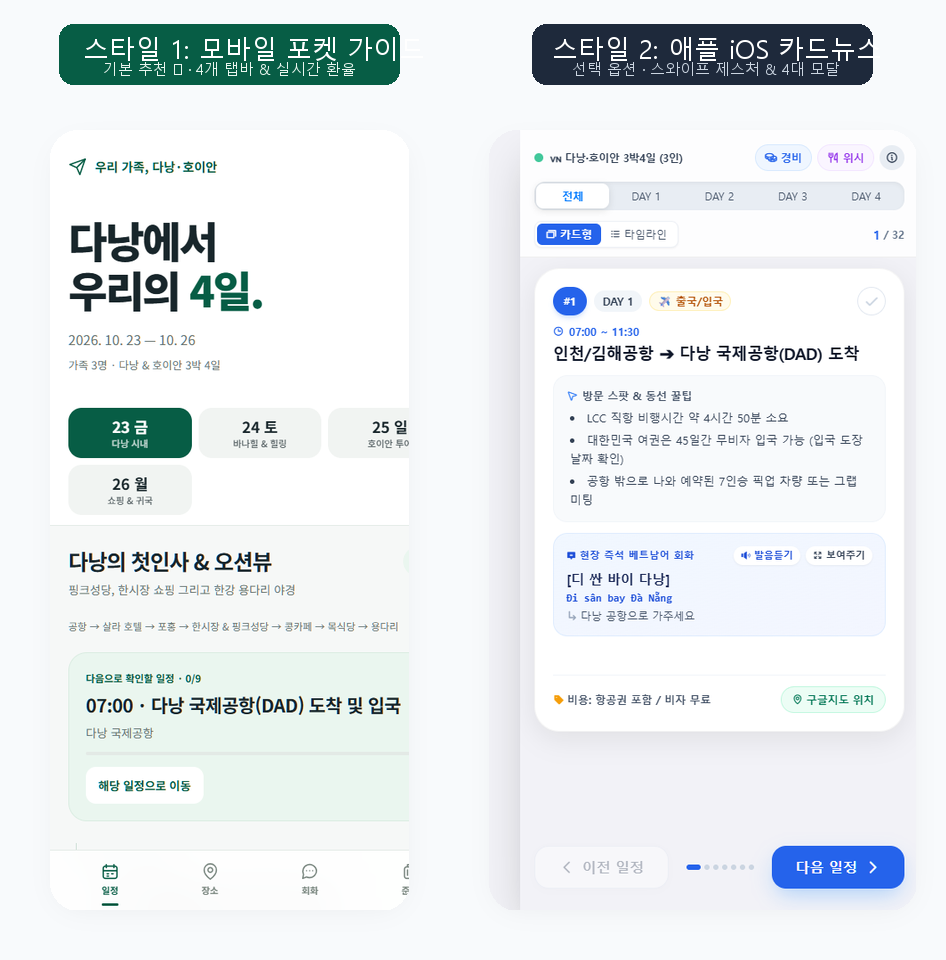
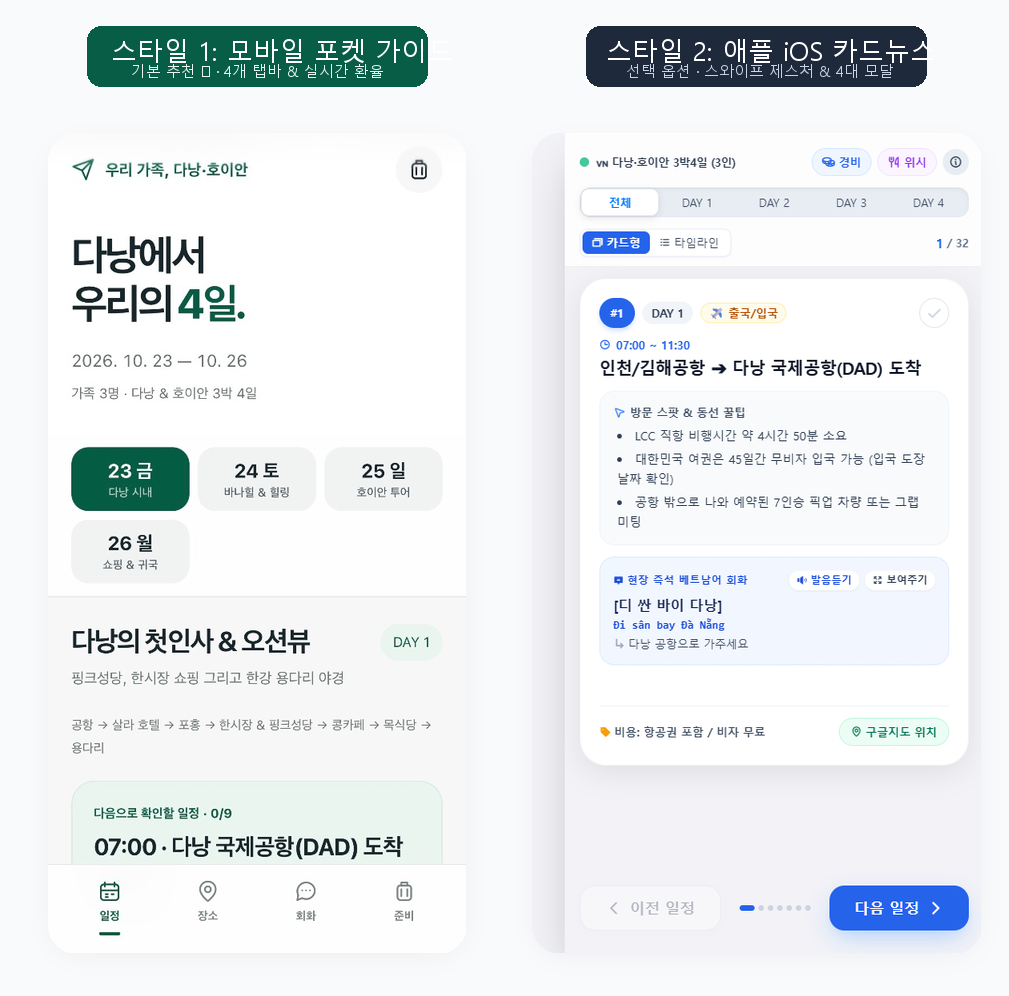
docs: update preview with real mobile screenshot and add interactive live demo links

diff --git a/skills/trip-planner/README.ko.md b/skills/trip-planner/README.ko.md
@@ -65,72 +65,10 @@
 스킬을 통해 자동으로 생성되는 모바일 최적화 애플 아이폰(iOS) 스타일 카드뉴스 웹 애플리케이션의 실제 캡처 화면 및 샘플 파일입니다.
 
 <p align="center">
-  <img src="dual_preview.png" alt="Dual Mobile Web App Styles: Pocket Guide & iOS Card News Preview" width="700" style="border-radius: 20px; box-shadow: 0 10px 30px rgba(0,0,0,0.12);" />
+  <img src="dual_preview.png" alt="2가지 스타일 모바일 웹앱: 포켓 가이드 & iOS 카드뉴스 미리보기" width="760" style="border-radius: 20px; box-shadow: 0 10px 30px rgba(0,0,0,0.12);" />
 </p>
 
-* 🌐 **샘플 웹앱 파일**: [`examples/danang_trip_cards.html`](examples/danang_trip_cards.html)  
-  *(다운로드 후 브라우저로 열면 오프라인에서 직접 카드 스와이프, TTS 발음듣기, 검색 타임라인을 체험할 수 있습니다.)*
-* 🗺 **구글 내 지도 올인원 KML**: [`examples/danang_mymaps.kml`](examples/danang_mymaps.kml)  
-  *(구글 내 지도에서 [새 지도 만들기] -> [가져오기]에 드래그하면 1~4일차 번호핀 및 상세 일정 팝업이 1초 만에 자동 생성됩니다.)*
-* 📊 **구글 내 지도 표준 8컬럼 통합 CSV**: [`examples/danang_itinerary.csv`](examples/danang_itinerary.csv)
-* 📂 **구글 내 지도 Day별 분리 CSV**:
-  * [`examples/day1_itinerary.csv`](examples/day1_itinerary.csv) (1일차)
-  * [`examples/day2_itinerary.csv`](examples/day2_itinerary.csv) (2일차)
-  * [`examples/day3_itinerary.csv`](examples/day3_itinerary.csv) (3일차)
-  * [`examples/day4_itinerary.csv`](examples/day4_itinerary.csv) (4일차)
-
----
-
-## 📂 파일 구조 (Structure)
-
-```
-trip-planner/
-├── SKILL.md                              # 스킬 메인 명세 및 6대 절대 원칙 가이드라인 (영문)
-├── SKILL.ko.md                           # 스킬 메인 명세 및 6대 절대 원칙 가이드라인 (국문)
-├── README.md                             # 영문 스킬 소개 및 사용 가이드
-├── README.ko.md                          # 국문 스킬 소개 및 사용 가이드
-├── sample_preview.png                    # 모바일 카드뉴스 웹앱 실제 스크린샷
-├── examples/                             # 🌟 실제 생성 샘플 산출물 (다낭 3박 4일 풀세트)
-│   ├── danang_trip_cards.html            # 모바일 카드뉴스 웹앱 샘플 (표준 iOS 템플릿 양식)
-│   ├── danang_mymaps.kml                 # 구글 내 지도 올인원 KML
-│   ├── danang_itinerary.csv              # 구글 내 지도 표준 8컬럼 통합 CSV 샘플
-│   ├── day1_itinerary.csv                # 1일차 구글 내 지도 CSV
-│   ├── day2_itinerary.csv                # 2일차 구글 내 지도 CSV
-│   ├── day3_itinerary.csv                # 3일차 구글 내 지도 CSV
-│   └── day4_itinerary.csv                # 4일차 구글 내 지도 CSV
-├── references/
-│   └── trip_planning_playbook.md         # 권역별(일본/동남아/유럽/미주) 플래닝 플레이북
-└── resources/
-    ├── master_itinerary_template.md      # 마스터 일정표 표준 Markdown 템플릿
-    ├── budget_template.md                # 다통화 환율 및 정밀 예산안 템플릿
-    ├── itinerary_template.csv            # 구글 내 지도 표준 8컬럼 CSV 템플릿
-    ├── mymaps_template.kml               # 구글 내 지도 올인원 KML 템플릿
-    ├── generate_maps_data.py             # Day별 CSV 및 올인원 KML 자동 빌드 스크립트
-    └── ios_card_app_template.html        # 양식·레이아웃·4대 모달·itineraryData 고정 표준 템플릿
-```
-
----
-
-## 🚀 설치 및 사용법 (Installation)
-
-### 1. Antigravity 글로벌 스킬로 설치
-본 저장소를 클론하여 사용자의 Antigravity 글로벌 스킬 디렉터리에 배치합니다:
-
-```bash
-# Windows (PowerShell)
-git clone https://github.com/jaeminiz/awesome-agent-skills.git
-Copy-Item -Path "awesome-agent-skills\skills\trip-planner" -Destination "$HOME\.gemini\config\skills\" -Recurse -Force
-
-# macOS / Linux
-git clone https://github.com/jaeminiz/awesome-agent-skills.git
-cp -r awesome-agent-skills/skills/trip-planner ~/.gemini/config/skills/
-```
-
-### 2. 프로젝트 전용 스킬로 설치
-특정 워크스페이스에서만 사용할 경우 프로젝트 루트의 `.agents/skills/`에 배치합니다:
-
-```bash
-# 워크스페이스 루트에서 실행
-New-Item -ItemType Directory -Force -Path ".agents\skills"
-Copy-Item -Path "awesome-agent-skills\skills\trip-planner" -Destination ".agents\skills\trip-planner" -Recurse -Force
-```
+### 🌐 실시간 인터랙티브 라이브 데모 (브라우저에서 바로 체험)
+스마트폰 또는 PC 브라우저에서 생성된 실제 웹앱을 클릭하여 직접 테스트해 보세요:
+* 📱 **[스타일 1: 모바일 포켓 가이드 웹앱 바로 열기 (다낭 4일)](https://jaeminiz.github.io/awesome-agent-skills/skills/trip-planner/examples/danang_pocket_guide.html)** — *기본 추천 ⭐ (4대 하단 탭, 실시간 검색, 완료 체크박스, Apple/Google 지도 듀얼 연동, 원어민 TTS 음성, 실시간 환율 계산기)*
+* 🗂 **[스타일 2: 애플 iOS 카드뉴스 웹앱 바로 열기 (다낭 4일)](https://jaeminiz.github.io/awesome-agent-skills/skills/trip-planner/examples/danang_trip_cards.html)** — *(터치 스와이프 카드뉴스, 화이트 글래스모피즘, 4대 상단 팝업 모달)*

diff --git a/skills/trip-planner/README.md b/skills/trip-planner/README.md
@@ -73,61 +73,10 @@ npx skills add https://github.com/jaeminiz/awesome-agent-skills --skill trip-pla
 A glimpse of the mobile-optimized Apple iPhone (iOS) style card news web app generated automatically by this skill:
 
 <p align="center">
-  <img src="dual_preview.png" alt="Dual Mobile Web App Styles: Pocket Guide & iOS Card News Preview" width="700" style="border-radius: 20px; box-shadow: 0 10px 30px rgba(0,0,0,0.12);" />
+  <img src="dual_preview.png" alt="Dual Mobile Web App Styles: Pocket Guide & iOS Card News Preview" width="760" style="border-radius: 20px; box-shadow: 0 10px 30px rgba(0,0,0,0.12);" />
 </p>
 
-* 🌐 **Interactive Web App Sample**: [`examples/danang_trip_cards.html`](examples/danang_trip_cards.html)  
-  *(Open directly in any mobile or desktop browser to experience card swiping, voice TTS, and timeline search completely offline.)*
-* 🗺 **Google My Maps All-in-One KML**: [`examples/danang_mymaps.kml`](examples/danang_mymaps.kml)  
-  *(Import into Google My Maps to instantly view 1–4 day numbered pins and popup descriptions.)*
-* 📊 **Google My Maps Standard 8-Column Integrated CSV**: [`examples/danang_itinerary.csv`](examples/danang_itinerary.csv)
-* 📂 **Google My Maps Day-by-Day CSVs**:
-  * [`examples/day1_itinerary.csv`](examples/day1_itinerary.csv) (Day 1)
-  * [`examples/day2_itinerary.csv`](examples/day2_itinerary.csv) (Day 2)
-  * [`examples/day3_itinerary.csv`](examples/day3_itinerary.csv) (Day 3)
-  * [`examples/day4_itinerary.csv`](examples/day4_itinerary.csv) (Day 4)
-
----
-
-## 📂 File Structure
-
-```
-trip-planner/
-├── SKILL.md                              # Main agent instruction & strict governance rules (EN)
-├── SKILL.ko.md                           # Main agent instruction & strict governance rules (KO)
-├── README.md                             # English skill documentation
-├── README.ko.md                          # Korean skill documentation
-├── sample_preview.png                    # Mobile card news web app screenshot
-├── examples/                             # Production-ready sample deliverables (Da Nang 4-Day)
-│   ├── danang_trip_cards.html            # Mobile card news web app (Strict iOS template layout)
-│   ├── danang_mymaps.kml                 # Google My Maps All-in-One KML
-│   ├── danang_itinerary.csv              # Google My Maps 8-column combined CSV
-│   ├── day1_itinerary.csv                # Day 1 CSV
-│   ├── day2_itinerary.csv                # Day 2 CSV
-│   ├── day3_itinerary.csv                # Day 3 CSV
-│   └── day4_itinerary.csv                # Day 4 CSV
-├── references/
-│   └── trip_planning_playbook.md         # Regional planning guidelines (Asia, Europe, Americas)
-└── resources/
-    ├── master_itinerary_template.md      # Master itinerary Markdown template
-    ├── budget_template.md                # Multi-currency budget template
-    ├── itinerary_template.csv            # Google My Maps 8-column CSV template
-    ├── mymaps_template.kml               # Google My Maps All-in-One KML template
-    ├── generate_maps_data.py             # Python utility script for CSV & KML builds
-    └── ios_card_app_template.html        # Strict iOS Card App HTML/JS template (4 Modals + itineraryData)
-```
-
----
-
-## 🌐 Language Support
-
-The `trip-planner` skill is fully **language-agnostic**:
-* When the user converses in **English**, all questionnaire items, timeline tables, budgets, and generated deliverables are rendered in **English** (with native local phrases for destination countries).
-* When the user converses in **Korean**, it operates seamlessly in **Korean**.
-* Supports any destination worldwide (Japan, Vietnam, France, Italy, USA, Switzerland, Spain, etc.).
-
----
-
-## 📄 License
-
-MIT License. See [LICENSE](../../LICENSE) for details.
+### 🌐 Live Interactive Demos (Instant Browser Test)
+Test the generated mobile web applications directly in your smartphone or desktop browser:
+* 📱 **[Style 1: Mobile Pocket Guide Demo (Da Nang 4-Day)](https://jaeminiz.github.io/awesome-agent-skills/skills/trip-planner/examples/danang_pocket_guide.html)** — *Recommended ⭐ (4 native bottom tabs, live search, task checkmarks, Apple/Google Maps, TTS voice, dynamic exchange rate calculator)*
+* 🗂 **[Style 2: Apple iOS Card News Demo (Da Nang 4-Day)](https://jaeminiz.github.io/awesome-agent-skills/skills/trip-planner/examples/danang_trip_cards.html)** — *(Swipe gesture card deck, white glassmorphic design, 4 top utility modals)*

diff --git a/README.ko.md b/README.ko.md
@@ -41,63 +41,10 @@
 * **[방법 B: KML로 등록 - 원클릭]**: **[+ 새 지도 만들기]** ➔ **[가져오기]** ➔ `danang_mymaps.kml` 드래그앤드롭 ➔ 파싱 에러 없이 전 일정 핀과 팝업 즉시 등록. *(팁: 이전 세션 캐시로 인한 오류 팝업 발생 시 브라우저를 **F5 새로고침** 후 재시도)*
 
 <p align="center">
-  <img src="skills/trip-planner/dual_preview.png" alt="Dual Mobile Web App Styles: Pocket Guide & iOS Card News Preview" width="700" style="border-radius: 20px; box-shadow: 0 10px 30px rgba(0,0,0,0.12);" />
+  <img src="skills/trip-planner/dual_preview.png" alt="2가지 스타일 모바일 웹앱: 포켓 가이드 & iOS 카드뉴스 미리보기" width="760" style="border-radius: 20px; box-shadow: 0 10px 30px rgba(0,0,0,0.12);" />
 </p>
 
-* 🌐 **[실제 다낭 여행 카드뉴스 웹앱 체험](skills/trip-planner/examples/danang_trip_cards.html)**
-* 🗺 **[구글 내 지도 올인원 KML 샘플](skills/trip-planner/examples/danang_mymaps.kml)**
-* 📊 **[구글 내 지도 표준 8컬럼 CSV 샘플](skills/trip-planner/examples/danang_itinerary.csv)**
-* 📖 **[trip-planner 스킬 상세 안내 및 활용법](skills/trip-planner/)**
-
----
-
-## 🚀 설치 및 사용 가이드 (Installation)
-
-### 1. 저장소 클론
-```bash
-git clone https://github.com/jaeminiz/awesome-agent-skills.git
-```
-
-### 2. Antigravity 글로벌 스킬로 등록
-원하는 스킬 폴더를 Antigravity 글로벌 스킬 경로로 복사합니다:
-
-```bash
-# Windows (PowerShell)
-Copy-Item -Path "awesome-agent-skills\skills\trip-planner" -Destination "$HOME\.gemini\config\skills\" -Recurse -Force
-
-# macOS / Linux
-cp -r awesome-agent-skills/skills/trip-planner ~/.gemini/config/skills/
-```
-
-### 3. 특정 프로젝트 전용 스킬로 등록
-특정 작업 공간(프로젝트 워크스페이스)에서만 적용하고 싶을 때:
-
-```bash
-# 프로젝트 루트의 .agents/skills/ 경로에 배치
-mkdir -p .agents/skills
-cp -r awesome-agent-skills/skills/trip-planner .agents/skills/
-```
-
----
-
-## 🤝 새로운 스킬 기여 안내 (Contributing)
-
-새로운 고품질 에이전트 스킬 추가 기여를 언제나 환영합니다!
-
-1. 본 저장소를 Fork 합니다.
-2. `skills/<스킬-이름>/` 디렉터리를 생성하고 필수 명세서(`SKILL.md`)를 작성합니다.
-   ```
-   skills/my-awesome-skill/
-   ├── SKILL.md            # YAML frontmatter (name, description) 및 상세 행동 지침
-   ├── README.md           # 스킬 소개 및 사용법 안내
-   ├── references/         # (선택) 상세 참조 가이드 및 플레이북
-   └── resources/          # (선택) 템플릿, 자동화 스크립트, 데이터 에셋
-   ```
-3. 루트 `README.md`의 [스킬 디렉터리](#-스킬-디렉터리-skills-directory) 테이블에 해당 스킬을 등록합니다.
-4. Pull Request(PR)를 제출해 주세요!
-
----
-
-## 📄 라이선스 (License)
-
-본 프로젝트는 [MIT License](LICENSE)에 따라 자유롭게 사용 및 기여하실 수 있습니다.
+### 🌐 실시간 인터랙티브 라이브 데모 (브라우저에서 바로 체험)
+스마트폰 또는 PC 브라우저에서 생성된 실제 웹앱을 클릭하여 직접 테스트해 보세요:
+* 📱 **[스타일 1: 모바일 포켓 가이드 웹앱 바로 열기 (다낭 4일)](https://jaeminiz.github.io/awesome-agent-skills/skills/trip-planner/examples/danang_pocket_guide.html)** — *기본 추천 ⭐ (4대 하단 탭, 실시간 검색, 완료 체크박스, Apple/Google 지도 듀얼 연동, 원어민 TTS 음성, 실시간 환율 계산기)*
+* 🗂 **[스타일 2: 애플 iOS 카드뉴스 웹앱 바로 열기 (다낭 4일)](https://jaeminiz.github.io/awesome-agent-skills/skills/trip-planner/examples/danang_trip_cards.html)** — *(터치 스와이프 카드뉴스, 화이트 글래스모피즘, 4대 상단 팝업 모달)*

diff --git a/README.md b/README.md
@@ -55,62 +55,10 @@ A production-grade AI agent skill designed for both domestic and worldwide inter
 * **[Method B: KML Import - One-Click]**: **[+ Create a new map]** ➔ **[Import]** ➔ Drag & drop `danang_mymaps.kml` ➔ All pins and HTML popups load immediately without XML errors. *(Tip: Press **F5 Refresh** if browser cache from an older session shows an error.)*
 
 <p align="center">
-  <img src="skills/trip-planner/dual_preview.png" alt="Dual Mobile Web App Styles: Pocket Guide & iOS Card News Preview" width="700" style="border-radius: 20px; box-shadow: 0 10px 30px rgba(0,0,0,0.12);" />
+  <img src="skills/trip-planner/dual_preview.png" alt="Dual Mobile Web App Styles: Pocket Guide & iOS Card News Preview" width="760" style="border-radius: 20px; box-shadow: 0 10px 30px rgba(0,0,0,0.12);" />
 </p>
 
-* 🌐 **[Live Demo: Da Nang 4-Day Trip Card Web App](skills/trip-planner/examples/danang_trip_cards.html)**
-* 🗺 **[Google My Maps All-in-One KML Sample](skills/trip-planner/examples/danang_mymaps.kml)**
-* 📊 **[Google My Maps Standard 8-Column CSV Sample](skills/trip-planner/examples/danang_itinerary.csv)**
-* 📖 **[Read the Full trip-planner Skill Documentation](skills/trip-planner/)**
-
----
-
-## 🚀 Manual Installation & Setup
-
-### 1. Clone Repository
-```bash
-git clone https://github.com/jaeminiz/awesome-agent-skills.git
-```
-
-### 2. Register into Google Antigravity Global Skills
-Copy the target skill directory to your Antigravity global skills folder:
-
-```bash
-# Windows (PowerShell)
-Copy-Item -Path "awesome-agent-skills\skills\trip-planner" -Destination "$HOME\.gemini\config\skills\" -Recurse -Force
-
-# macOS / Linux
-cp -r awesome-agent-skills/skills/trip-planner ~/.gemini/config/skills/
-```
-
-### 3. Register into Project Workspace (Local Agent Scope)
-To activate skills only inside a specific repository or workspace:
-
-```bash
-mkdir -p .agents/skills
-cp -r awesome-agent-skills/skills/trip-planner .agents/skills/
-```
-
----
-
-## 🤝 Contributing
-
-Contributions of new high-quality agent skills are warmly welcome!
-
-1. Fork this repository.
-2. Create your skill directory under `skills/<skill-name>/` with a valid specification (`SKILL.md`):
-   ```
-   skills/my-awesome-skill/
-   ├── SKILL.md            # YAML frontmatter (name, description) and actionable agent instructions
-   ├── README.md           # Introduction, features, and usage guide
-   ├── references/         # (Optional) Detailed domain playbooks
-   └── resources/          # (Optional) Templates, scripts, and asset files
-   ```
-3. Add your skill entry to the [Skills Directory](#-skills-directory) in this `README.md`.
-4. Submit a Pull Request (PR)!
-
----
-
-## 📄 License
-
-This project is licensed under the [MIT License](LICENSE) - feel free to use, modify, and distribute for personal and commercial projects.
+### 🌐 Live Interactive Demos (Instant Browser Test)
+Test the generated mobile web applications directly in your smartphone or desktop browser:
+* 📱 **[Style 1: Mobile Pocket Guide Demo (Da Nang 4-Day)](https://jaeminiz.github.io/awesome-agent-skills/skills/trip-planner/examples/danang_pocket_guide.html)** — *Recommended ⭐ (4 native bottom tabs, live search, task checkmarks, Apple/Google Maps, TTS voice, dynamic exchange rate calculator)*
+* 🗂 **[Style 2: Apple iOS Card News Demo (Da Nang 4-Day)](https://jaeminiz.github.io/awesome-agent-skills/skills/trip-planner/examples/danang_trip_cards.html)** — *(Swipe gesture card deck, white glassmorphic design, 4 top utility modals)*
